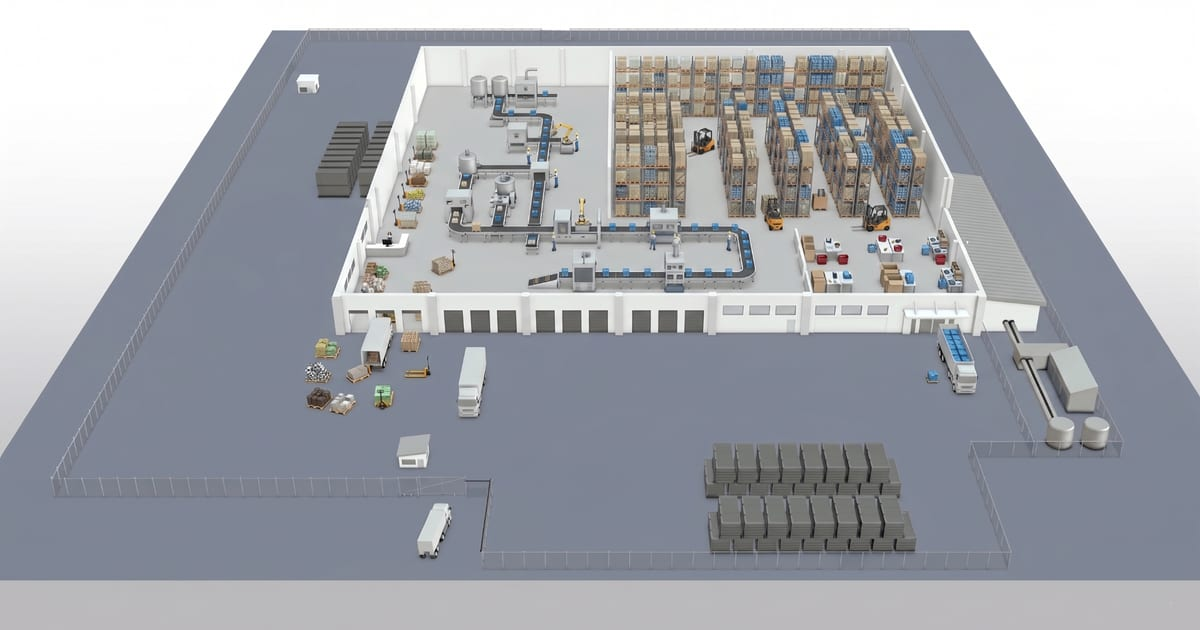
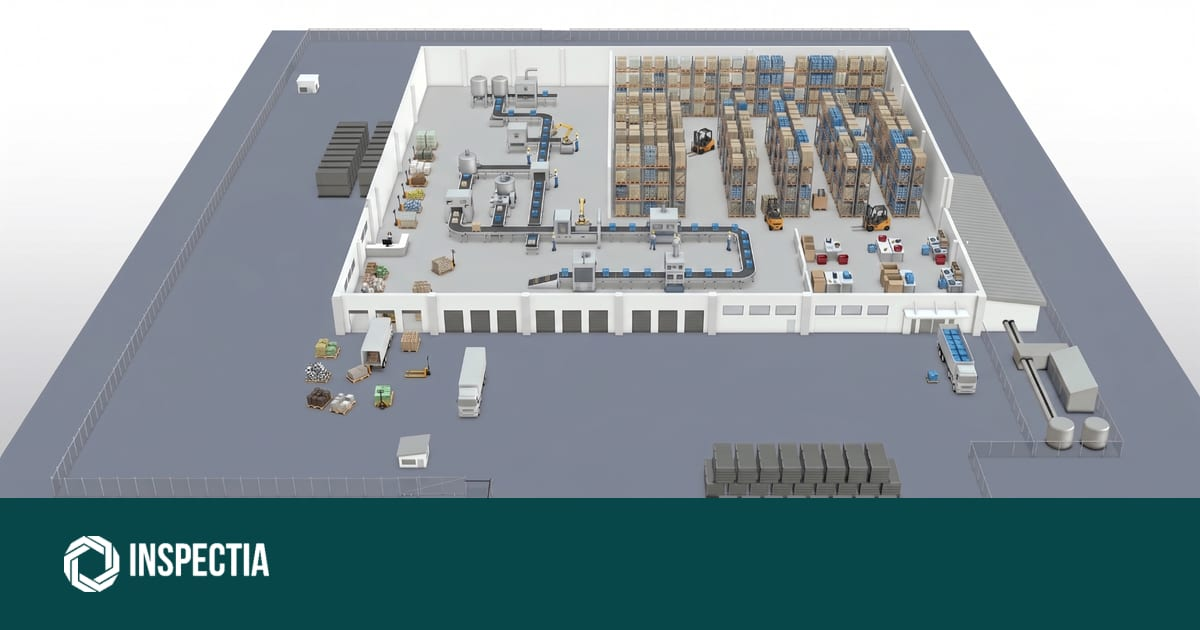
feat: el lockup real, la imagen de compartido con marca, y la barra final en 301
Cuatro pendientes de la lista de publicación que no dependían del equipo.

**El lockup de marca.** La barra y el pie escribían "InspectIA" con
tipografía porque no había archivo; el design system lo trae. Va a 32px
de alto desde un original de 96, así que se ve limpio en pantallas 3x.
La versión en blanco del pie se genera desde el alfa del propio archivo,
no se dibuja: el lockup es de un solo color, así que teñir su silueta da
exactamente la misma marca invertida.

Sigue faltando el vector, y eso no lo puedo resolver: los archivos
entregados son PNG y el propio handoff de iconos declara el isotipo como
no vectorizado.

**La imagen de compartido.** Era el recorte pelado del render: bonito y
mudo, sin nada que dijera de quién es. Ahora lleva el lockup en blanco
sobre una banda de teal profundo al pie. La banda no es decoración: sobre
el render claro un lockup blanco no tendría contraste.

**La barra final pasa de 307 a 301.** El enrutador ya normalizaba, pero
con un redireccionamiento temporal, así que el buscador no consolidaba la
autoridad y la duplicación quedaba viva. Con la migración pesa más que
antes, porque las quince URLs heredadas terminan en barra. Se resuelve en
el servidor, antes del enrutador, y después de las heredadas: una URL
vieja con barra ya salió arriba en un solo salto.

**Y un .env.example** con las dos variables que bloquean la publicación,
con el identificador de GTM que apareció esta semana y la advertencia de
[…]

Changed region(s): [[0.0, 0.7841, 1.0, 1.0]]

diff --git a/src/components/site/Navbar.tsx b/src/components/site/Navbar.tsx
@@ -9,6 +9,7 @@ import {
 } from "@/components/ui/accordion";
 import { Sheet, SheetContent, SheetTitle, SheetTrigger } from "@/components/ui/sheet";
 import { CtaPair } from "@/components/site/CtaPair";
+import { LOCKUP } from "@/content/assets";
 import { MODULES } from "@/content/modules";
 import { INDUSTRIES, USE_CASES } from "@/content/solutions";
 import { approvedCases } from "@/content/cases";
@@ -333,10 +334,16 @@ export function Navbar() {
 
 function Wordmark() {
   return (
-    <Link to="/" className="shrink-0 text-xl font-bold tracking-tight text-ink">
-      {/* TODO(equipo): reemplazar por el lockup a 32px de alto cuando exista el vector.
-          Hoy los logos son PNG recortados y la marca no escala limpia (§15.10). */}
-      InspectIA<span className="text-brand">.</span>
+    <Link to="/" className="shrink-0" aria-label="InspectIA, inicio">
+      {/* 32px de alto, como pide la guía de marca. El archivo es de 96 para que se vea
+          limpio en pantallas 3x; sigue faltando el vector. */}
+      <img
+        src={LOCKUP.src}
+        alt={LOCKUP.alt}
+        width={LOCKUP.width}
+        height={LOCKUP.height}
+        className="h-8 w-auto"
+      />
     </Link>
   );
 }

diff --git a/src/content/assets.ts b/src/content/assets.ts
@@ -21,6 +21,30 @@ export const PLANT_PLAN = {
   alt: "Vista isométrica de una planta y un centro de distribución, con los ocho módulos de InspectIA ubicados en su punto de la operación",
 } as const;
 
+/**
+ * Lockup de marca: isotipo hexagonal más logotipo.
+ *
+ * Dos versiones porque la marca vive sobre dos fondos: el teal del original sobre blanco,
+ * y el blanco sobre el teal profundo del pie. La segunda se genera desde el alfa del
+ * mismo archivo, así que es la misma marca y no un dibujo aparte.
+ *
+ * TODO(equipo): **falta el vector.** Los archivos entregados son PNG y el handoff de
+ * iconos declara el isotipo como no vectorizado. A 96px de alto para usarse a 32 se ve
+ * bien en pantallas 3x, pero un SVG pesaría menos y escalaría sin techo.
+ */
+export const LOCKUP = {
+  /** Teal sobre fondos claros. */
+  src: "/img/brand/lockup.webp",
+  /** Blanco sobre el teal profundo. */
+  white: "/img/brand/lockup-blanco.webp",
+  width: 352,
+  height: 96,
+  alt: "InspectIA",
+} as const;
+
+/** Isotipo solo, para el favicon y donde no entra el lockup completo. */
+export const ISOTIPO = "/img/brand/isotipo.webp";
+
 export type PartnerSlug =
   | "antea-group"
   | "arnx"

diff --git a/src/components/site/Footer.tsx b/src/components/site/Footer.tsx
@@ -1,5 +1,6 @@
 import { useState } from "react";
 import { Link } from "@tanstack/react-router";
+import { LOCKUP } from "@/content/assets";
 import { MODULES } from "@/content/modules";
 import { INDUSTRIES, USE_CASES } from "@/content/solutions";
 import {
@@ -48,9 +49,15 @@ export function Footer() {
         >
           {/* --- Marca --- */}
           <div className="min-w-0">
-            <p className="text-xl font-bold tracking-tight text-on-brand">
-              InspectIA<span className="text-[var(--accent-on-brand)]">.</span>
-            </p>
+            {/* Sobre el teal profundo va la versión en blanco. La marca en su color
+                original sobre este fondo no tendría contraste. */}
+            <img
+              src={LOCKUP.white}
+              alt={LOCKUP.alt}
+              width={LOCKUP.width}
+              height={LOCKUP.height}
+              className="h-8 w-auto"
+            />
             <p className="mt-4 max-w-[38ch] text-sm leading-[var(--leading-normal)] text-on-brand-secondary">
               Plataforma modular para medir y controlar la operación de plantas y centros de
               distribución.

diff --git a/src/lib/http-policy.ts b/src/lib/http-policy.ts
@@ -58,6 +58,26 @@ const LEGACY_REDIRECTS: Record<string, string> = {
   // página. Era la que más tráfico de búsqueda traía y el término se pierde si redirige.
 };
 
+/**
+ * Normalización de la barra final, como 301 y no como el 307 del enrutador.
+ *
+ * El enrutador ya normaliza, pero con un 307, que es temporal: el buscador no consolida
+ * la autoridad de la forma con barra en la sin barra, y la duplicación queda viva. Con la
+ * migración eso pesa más que antes, porque las quince URLs heredadas terminan en barra.
+ *
+ * No toca la raíz ni nada que tenga extensión: `/sitemap.xml` no lleva barra y un archivo
+ * estático tampoco.
+ */
+export function resolveTrailingSlash(url: URL): Response | null {
+  const p = url.pathname;
+  if (p === "/" || !p.endsWith("/")) return null;
+
+  return new Response(null, {
+    status: 301,
+    headers: { location: `${p.replace(/\/+$/, "")}${url.search}` },
+  });
+}
+
 /** Rutas de WordPress con hijos. El feed lo sigue pegando cualquier lector suscripto. */
 const LEGACY_PREFIXES = ["/feed", "/wp-json"];
 

diff --git a/src/server.ts b/src/server.ts
@@ -2,7 +2,11 @@ import "./lib/error-capture";
 
 import { consumeLastCapturedError } from "./lib/error-capture";
 import { renderErrorPage } from "./lib/error-page";
-import { resolveLegacyRedirect, withSecurityHeaders } from "./lib/http-policy";
+import {
+  resolveLegacyRedirect,
+  resolveTrailingSlash,
+  withSecurityHeaders,
+} from "./lib/http-policy";
 
 type ServerEntry = {
   fetch: (request: Request, env: unknown, ctx: unknown) => Promise<Response> | Response;
@@ -46,6 +50,11 @@ export default {
     // de encadenar el 307 de normalización de barra final con el 301 de la ruta.
     const legacy = resolveLegacyRedirect(url);
     if (legacy) return legacy;
+
+    // Después de las heredadas: una URL vieja con barra ya se resolvió arriba en un solo
+    // salto, y lo que llega acá es cualquier otra con barra de más.
+    const slash = resolveTrailingSlash(url);
+    if (slash) return slash;
 
     try {
       const handler = await getServerEntry();
